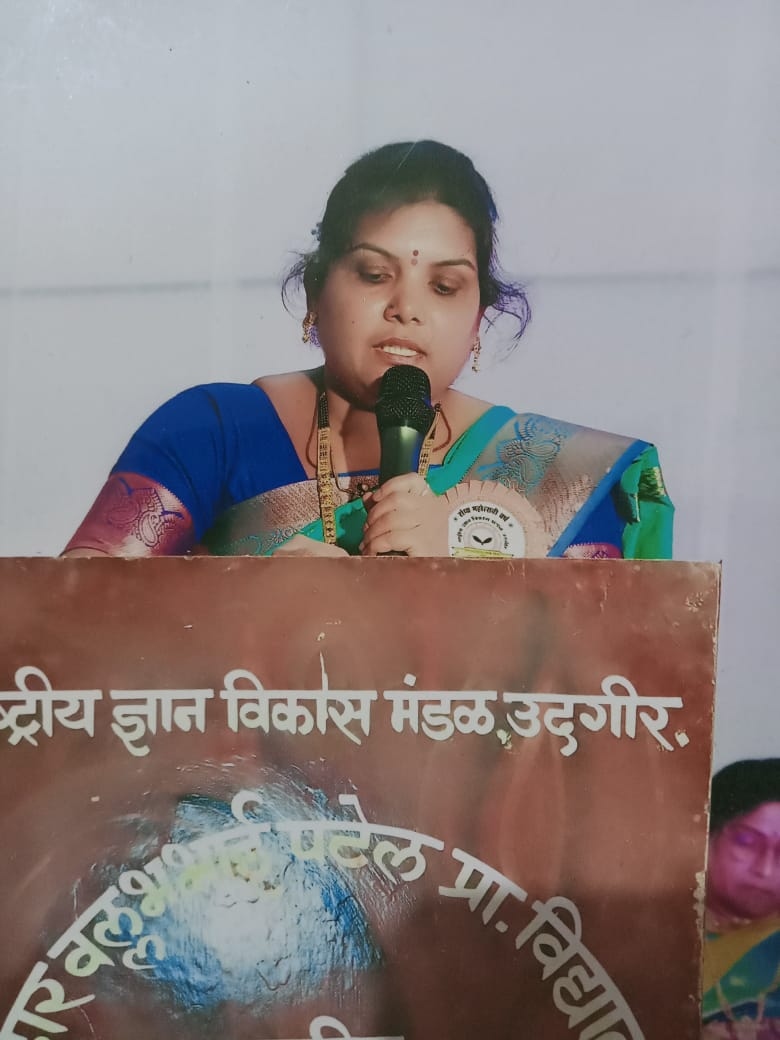
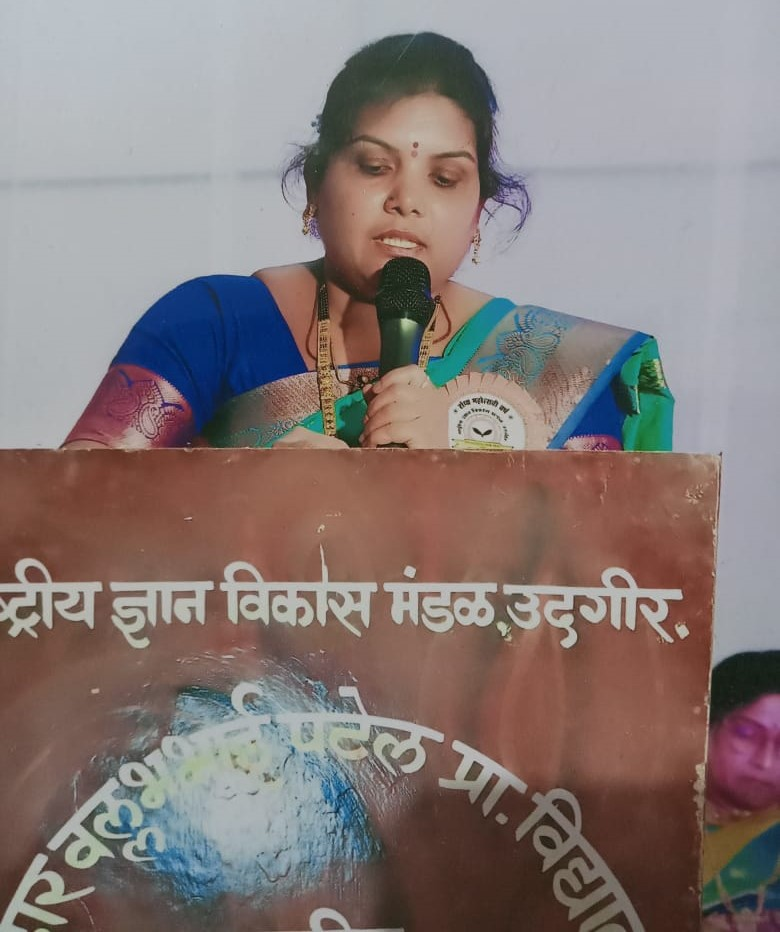
updated

diff --git a/Photos/jadhavmam6th.html b/Photos/jadhavmam6th.html
@@ -73,16 +73,15 @@
         </div>
         <div class="row tm-mb-90">
             <div class="col-xl-8 col-lg-7 col-md-6 col-sm-12" >
-                <img src="SampleImg/bird.jpg" alt="Image" class="img-fluid">
+                <img src="SVPPS NEW ALL PHOTOS/Jadhav Madam6th/IMG-20240325-WA0252.jpg" alt="Image" class="img-fluid">
             </div>
             <div class="col-xl-4 col-lg-5 col-md-6 col-sm-12">
                 <div style="background-color: azure;" class="tm-bg-gray tm-video-details">
                     <p class="mb-4">
                         <Strong style="color: black; font-size: 22px;">
-                        Lorem ipsum dolor sit amet consectetur adipisicing elit. Esse voluptatem sit modi? Cum tempora
-                        expedita eius suscipit aperiam doloremque deleniti repellat inventore sequi at. Soluta fugit
-                        quae nobis, consequatur voluptatem vero accusamus fuga neque iusto tempora ipsum veritatis
-                        cumque facilis.</Strong>
+                            <h3>Name:Jadhav Madam</h3>
+                            Class:6th Std
+                        </Strong>
                     </p>
                 </div>
             </div>
@@ -95,7 +94,7 @@
         <div class="row mb-3 tm-gallery">
             <div class="col-xl-3 col-lg-4 col-md-6 col-sm-6 col-12 mb-5">
                 <figure class="effect-ming tm-video-item">
-                    <img src="SampleImg/bird.jpg" alt="Image" class="img-fluid">
+                    <img src="SVPPS NEW ALL PHOTOS/Jadhav Madam6th/IMG-20240325-WA0254.jpg" alt="Image" class="img-fluid">
                     <figcaption class="d-flex align-items-center justify-content-center">
                         <h2>Birds</h2>
                         <a href="#">View more</a>
@@ -108,7 +107,7 @@
             </div>
             <div class="col-xl-3 col-lg-4 col-md-6 col-sm-6 col-12 mb-5">
                 <figure class="effect-ming tm-video-item">
-                    <img src="SampleImg/bird.jpg" alt="Image" class="img-fluid">
+                    <img src="SVPPS NEW ALL PHOTOS/Jadhav Madam6th/IMG-20240325-WA0257.jpg" alt="Image" class="img-fluid">
                     <figcaption class="d-flex align-items-center justify-content-center">
                         <h2>Birds</h2>
                         <a href="#">View more</a>
@@ -121,7 +120,7 @@
             </div>
             <div class="col-xl-3 col-lg-4 col-md-6 col-sm-6 col-12 mb-5">
                 <figure class="effect-ming tm-video-item">
-                    <img src="SampleImg/bird.jpg" alt="Image" class="img-fluid">
+                    <img src="SVPPS NEW ALL PHOTOS/Jadhav Madam6th/IMG-20240325-WA0259.jpg" alt="Image" class="img-fluid">
                     <figcaption class="d-flex align-items-center justify-content-center">
                         <h2>Birds</h2>
                         <a href="#">View more</a>
@@ -134,7 +133,7 @@
             </div>
             <div class="col-xl-3 col-lg-4 col-md-6 col-sm-6 col-12 mb-5">
                 <figure class="effect-ming tm-video-item">
-                    <img src="SampleImg/bird.jpg" alt="Image" class="img-fluid">
+                    <img src="SVPPS NEW ALL PHOTOS/Jadhav Madam6th/IMG-20240325-WA0247.jpg" alt="Image" class="img-fluid">
                     <figcaption class="d-flex align-items-center justify-content-center">
                         <h2>Birds</h2>
                         <a href="#">View more</a>
@@ -147,7 +146,7 @@
             </div>
             <div class="col-xl-3 col-lg-4 col-md-6 col-sm-6 col-12 mb-5">
                 <figure class="effect-ming tm-video-item">
-                    <img src="SampleImg/bird.jpg" alt="Image" class="img-fluid">
+                    <img src="SVPPS NEW ALL PHOTOS/Jadhav Madam6th/IMG-20240325-WA0248.jpg" alt="Image" class="img-fluid">
                     <figcaption class="d-flex align-items-center justify-content-center">
                         <h2>Birds</h2>
                         <a href="#">View more</a>
@@ -160,7 +159,7 @@
             </div>
             <div class="col-xl-3 col-lg-4 col-md-6 col-sm-6 col-12 mb-5">
                 <figure class="effect-ming tm-video-item">
-                    <img src="SampleImg/bird.jpg" alt="Image" class="img-fluid">
+                    <img src="SVPPS NEW ALL PHOTOS/Jadhav Madam6th/IMG-20240325-WA0249.jpg" alt="Image" class="img-fluid">
                     <figcaption class="d-flex align-items-center justify-content-center">
                         <h2>Birds</h2>
                         <a href="#">View more</a>
@@ -173,7 +172,7 @@
             </div>
             <div class="col-xl-3 col-lg-4 col-md-6 col-sm-6 col-12 mb-5">
                 <figure class="effect-ming tm-video-item">
-                    <img src="SampleImg/bird.jpg" alt="Image" class="img-fluid">
+                    <img src="SVPPS NEW ALL PHOTOS/Jadhav Madam6th/IMG-20240325-WA0250.jpg" alt="Image" class="img-fluid">
                     <figcaption class="d-flex align-items-center justify-content-center">
                         <h2>Birds</h2>
                         <a href="#">View more</a>
@@ -186,7 +185,7 @@
             </div>
             <div class="col-xl-3 col-lg-4 col-md-6 col-sm-6 col-12 mb-5">
                 <figure class="effect-ming tm-video-item">
-                    <img src="SampleImg/bird.jpg" alt="Image" class="img-fluid">
+                    <img src="SVPPS NEW ALL PHOTOS/Jadhav Madam6th/IMG-20240325-WA0260.jpg" alt="Image" class="img-fluid">
                     <figcaption class="d-flex align-items-center justify-content-center">
                         <h2>Birds</h2>
                         <a href="#">View more</a>

diff --git a/principalstaffgallery.html b/principalstaffgallery.html
@@ -217,10 +217,10 @@
             </div>
             <div class="col-xl-3 col-lg-4 col-md-6 col-sm-6 col-12 mb-5">
                 <figure class="effect-ming tm-video-item">
-                    <img src="img/img-10.jpg" alt="Image" class="img-fluid">
+                    <img src="Photos/SVPPS NEW ALL PHOTOS/Jadhav Madam6th/IMG-20240325-WA0252.jpg" alt="Image" class="img-fluid">
                     <figcaption class="d-flex align-items-center justify-content-center">
                         <h2>Jadhav madam</h2>
-                        <a href="insidestaff.html">View more</a>
+                        <a href="Photos/jadhavmam6th.html">View more</a>
                     </figcaption>                    
                 </figure>
                 <div class="d-flex justify-content-between tm-text-gray">
@@ -267,45 +267,7 @@
                     <span>107,510 views</span>
                 </div>
             </div>
-            <div class="col-xl-3 col-lg-4 col-md-6 col-sm-6 col-12 mb-5">
-                <figure class="effect-ming tm-video-item">
-                    <img src="img/img-14.jpg" alt="Image" class="img-fluid">
-                    <figcaption class="d-flex align-items-center justify-content-center">
-                        <h2>Sea</h2>
-                        <a href="insidestaff.html">View more</a>
-                    </figcaption>                    
-                </figure>
-                <div class="d-flex justify-content-between tm-text-gray">
-                    <span class="tm-text-gray-light">14 Aug 2020</span>
-                    <span>118,006 views</span>
-                </div>
-            </div>
-            <div class="col-xl-3 col-lg-4 col-md-6 col-sm-6 col-12 mb-5">
-                <figure class="effect-ming tm-video-item">
-                    <img src="img/img-15.jpg" alt="Image" class="img-fluid">
-                    <figcaption class="d-flex align-items-center justify-content-center">
-                        <h2>Turtle</h2>
-                        <a href="insidestaff.html">View more</a>
-                    </figcaption>                    
-                </figure>
-                <div class="d-flex justify-content-between tm-text-gray">
-                    <span class="tm-text-gray-light">9 Aug 2020</span>
-                    <span>121,300 views</span>
-                </div>
-            </div>
-            <div class="col-xl-3 col-lg-4 col-md-6 col-sm-6 col-12 mb-5">
-                <figure class="effect-ming tm-video-item">
-                    <img src="img/img-16.jpg" alt="Image" class="img-fluid">
-                    <figcaption class="d-flex align-items-center justify-content-center">
-                        <h2>Peace</h2>
-                        <a href="insidestaff.html">View more</a>
-                    </figcaption>                    
-                </figure>
-                <div class="d-flex justify-content-between tm-text-gray">
-                    <span class="tm-text-gray-light">3 Aug 2020</span>
-                    <span>21,204 views</span>
-                </div>
-            </div>         
+            
         </div> <!-- row -->
         
     </div> 
